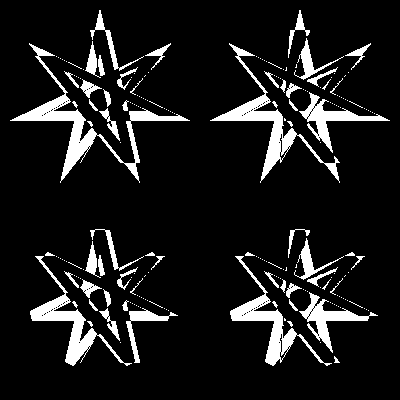
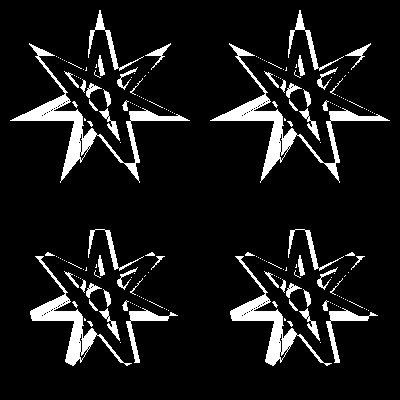
First implementation of miter joints

diff --git a/MyCanvas.cpp b/MyCanvas.cpp
@@ -147,20 +147,62 @@ void MyCanvas::strokePolygon(const GPoint Points[], int n, bool isClosed, const 
     return;
   }
 
+  using namespace Utility;
+
   std::vector<GQuad> Shells;
 
-  /*Calculate every shell and store it into the vector*/
-  for (int i = 0; i < n - 1; ++i)
-  {
+  //Calculate every shell and store it into the vector
+  for (int i = 0; i < n - 1; ++i) {
     Shells.emplace_back(GQuad{Points[i], Points[i + 1], stroke.fWidth});
   }
 
+  //If the polygon is closed then we connect the last and first points
+  if (isClosed) {
+    Shells.emplace_back(GQuad{Points[n-1], Points[0], stroke.fWidth});
+  }
+
+  //Draw all of the shells
   for (auto Shell : Shells)
   {
     auto Points = Shell.getPoints();
     CTMPoints(Points);
     auto Edges = pointsToEdges(Points);
 
+    shadeDevicePolygon(Edges, shader);
+  }
+
+  //No need to do joint work if only one line
+  if (Shells.size() == 1) return;
+
+  for (int i = 0; i < Shells.size(); ++i)
+  {
+    std::vector<GPoint> JointPoly;
+
+    const GPoint& joint = Shells[i].B;
+    const GPoint& BQ = Shells[i].ABT;
+    const GPoint& BR = Shells[i+1].ABT;
+    GPoint Q = joint + BQ;
+    GPoint R = joint + BR;
+    GPoint BP = BR + BQ;
+
+    GPoint U = Utility::unitVector(Shells[i].A, Shells[i].B);
+    U.fX = -U.fX;
+    U.fY = -U.fY;
+    GPoint V = Utility::unitVector(Shells[i+1].A, Shells[i+1].B);
+    float UdotV = U.fX * V.fX + U.fY * V.fY;
+    float h = std::sqrt(2.0f / (1 - UdotV));
+    float BPlength = stroke.fWidth / 2.0f * h;
+
+    BP.fX *= BPlength;
+    BP.fY *= BPlength;
+
+    JointPoly.push_back(joint);
+    JointPoly.push_back(Q);
+    JointPoly.push_back(R);
+    JointPoly.push_back(joint + BP);
+
+    CTMPoints(JointPoly);
+    auto Edges = pointsToEdges(JointPoly);
     shadeDevicePolygon(Edges, shader);
   }
 }

diff --git a/GQuad.h b/GQuad.h
@@ -7,6 +7,7 @@
 
 #include <vector>
 #include "GPoint.h"
+#include "Utility.h"
 
 class GQuad
 {
@@ -17,10 +18,9 @@ public:
 
   static GQuad MakeShell(const GPoint& A, const GPoint& B, float width)
   {
-    GPoint AB = GPoint::Make(B.fX - A.fX, B.fY - A.fY);
-    float length = std::sqrt(AB.fX * AB.fX + AB.fY * AB.fY);
+    GPoint AB = Utility::unitVector(A, B);
     float rad = width * 0.5f;
-    GPoint ABT = GPoint::Make(-AB.fY * rad / length, AB.fX * rad / length);
+    GPoint ABT = GPoint::Make(-AB.fY * rad, AB.fX * rad);
 
     GQuad Shell = {A, B, ABT};
 

diff --git a/Utility.h b/Utility.h
@@ -40,6 +40,18 @@ inline int round(float a)
   return (int)std::floor(a + .5);
 }
 
+GPoint unitVector(const GPoint& A, const GPoint& B);
+
+inline GPoint operator+(const GPoint& A, const GPoint& B)
+{
+  return GPoint{A.fX + B.fX, A.fY + B.fY};
+}
+
+inline GPoint operator-(const GPoint& A, const GPoint& B)
+{
+  return GPoint{A.fX - B.fX, A.fY - B.fY};
+}
+
 GPixel ColorToPixel(const GColor& color);
 
 std::vector<GPoint> RectToPoints(const GRect& Rect);

diff --git a/Utility.cpp b/Utility.cpp
@@ -2,6 +2,17 @@
 
 namespace Utility
 {
+
+GPoint unitVector(const GPoint& A, const GPoint& B)
+{
+  GPoint AB = B - A;
+  float length = std::sqrt(AB.fX * AB.fX + AB.fY + AB.fY);
+  AB.fX /= length;
+  AB.fY /= length;
+
+  return AB;
+}
+
 GPixel ColorToPixel(const GColor& color)
 {
   GColor pinned = color.pinToUnit();            //Make sure color is between 0 and 1
